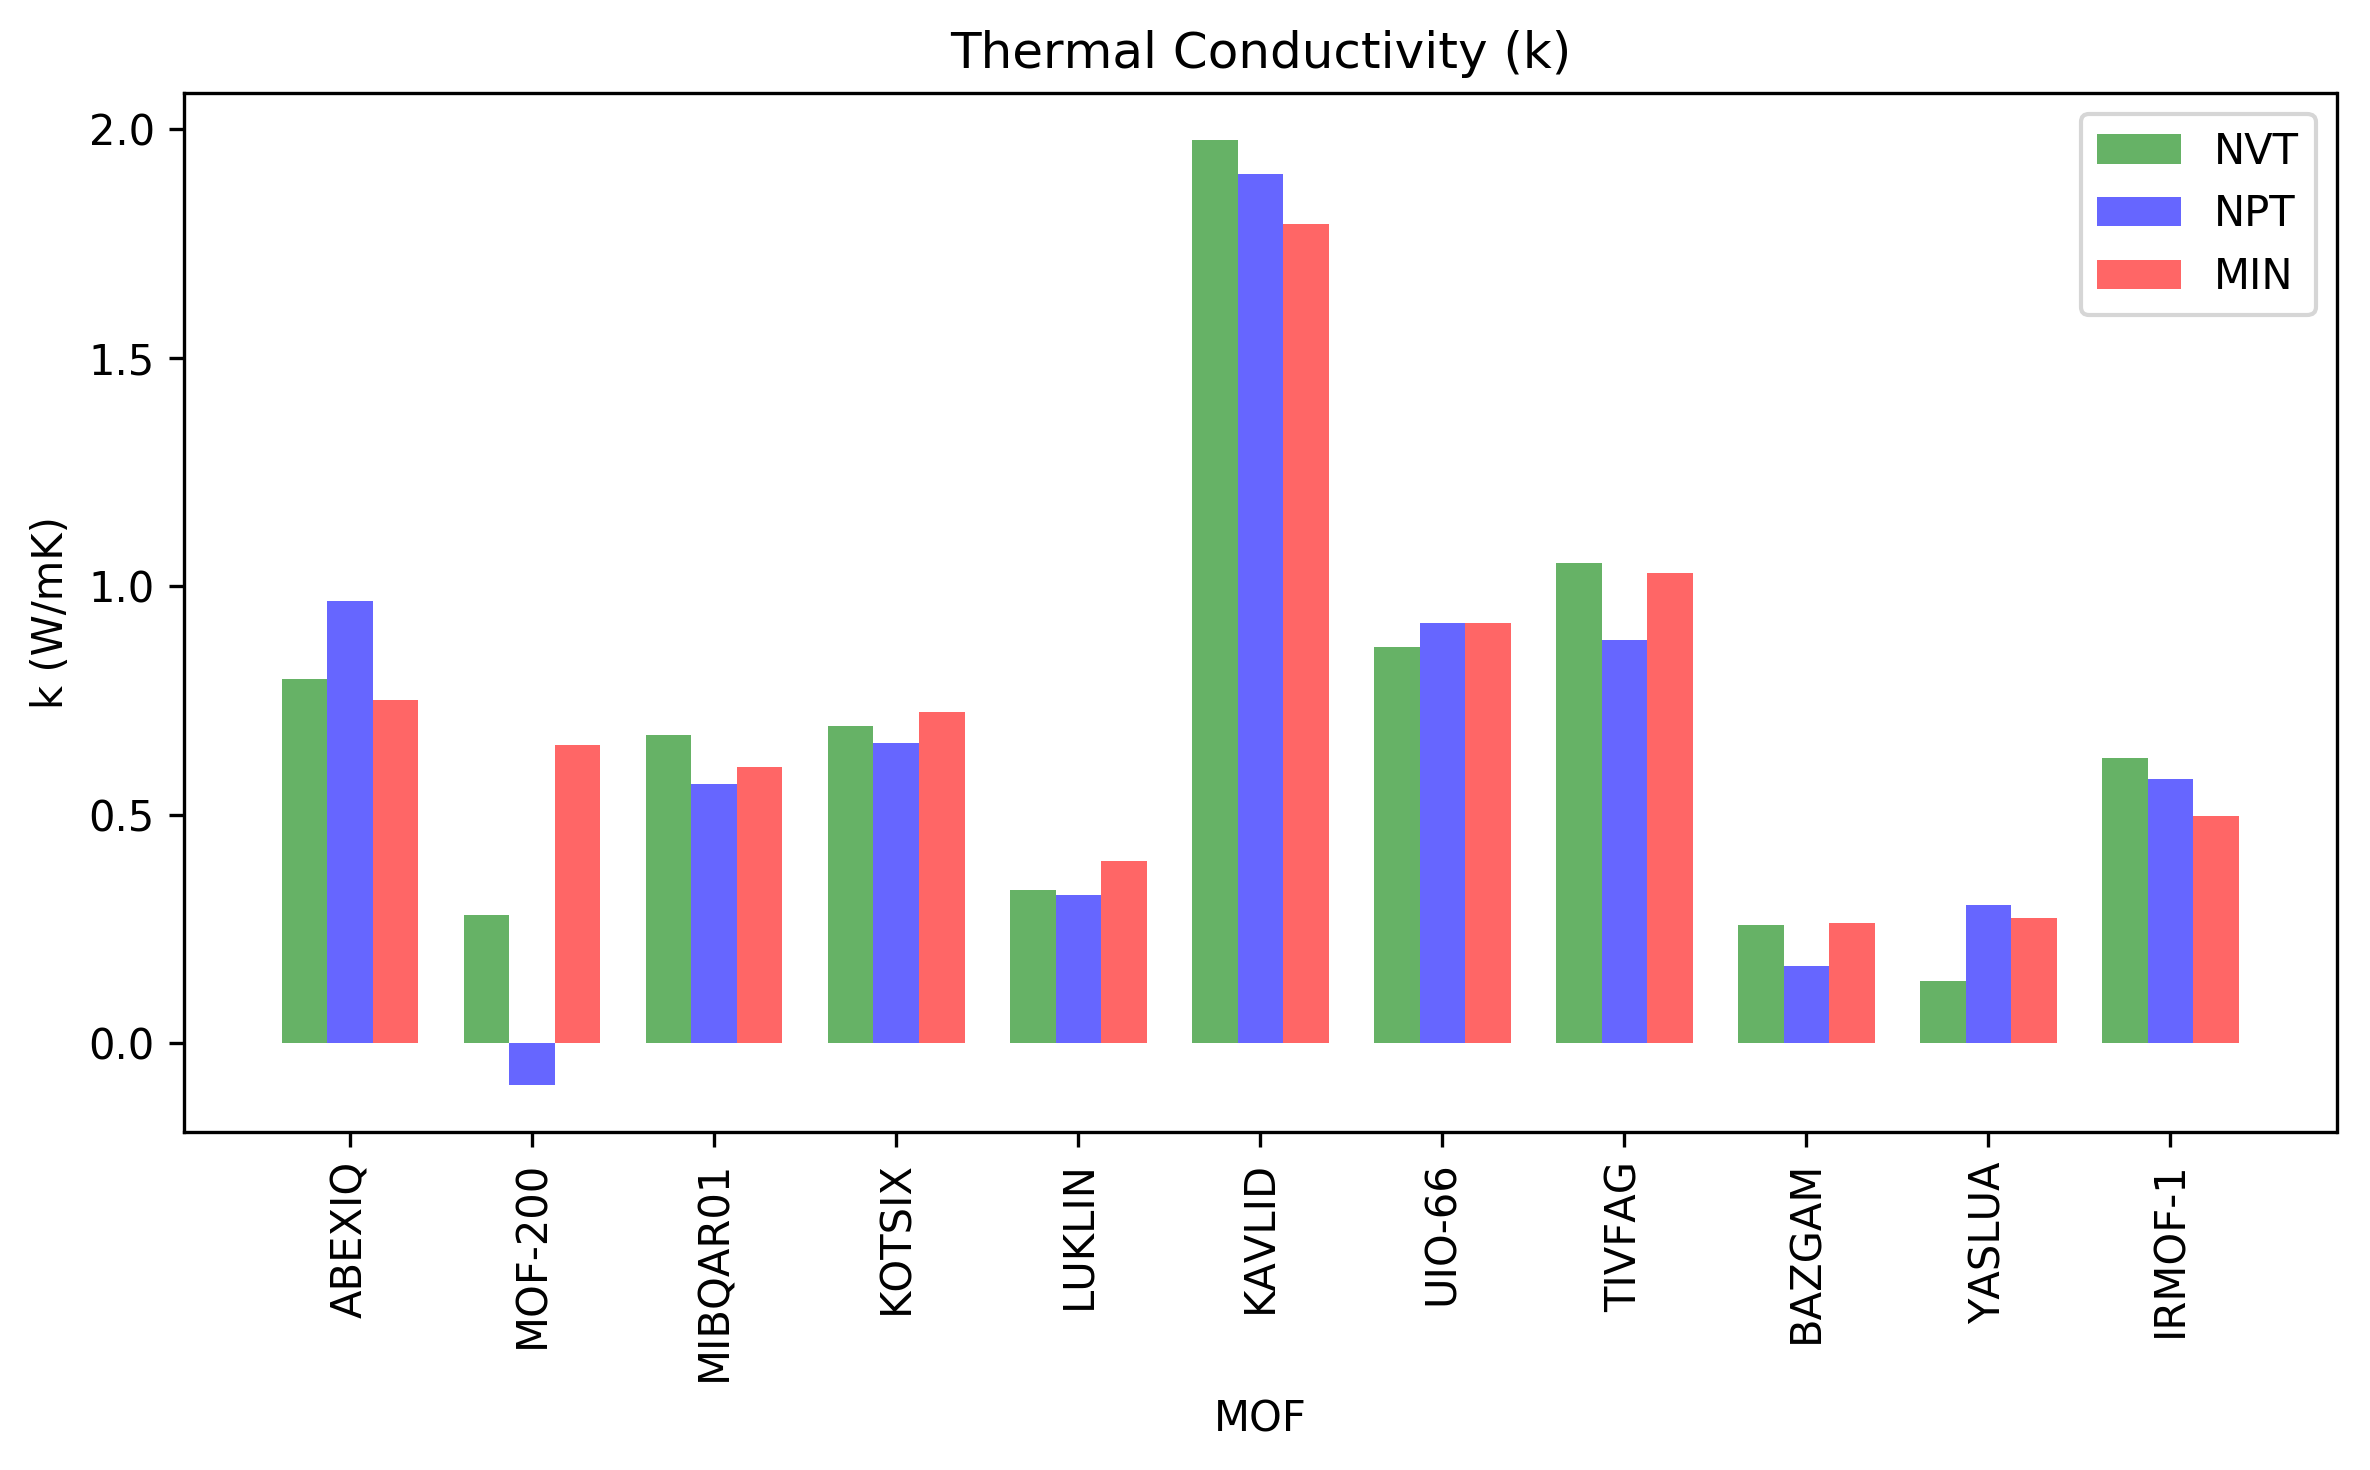
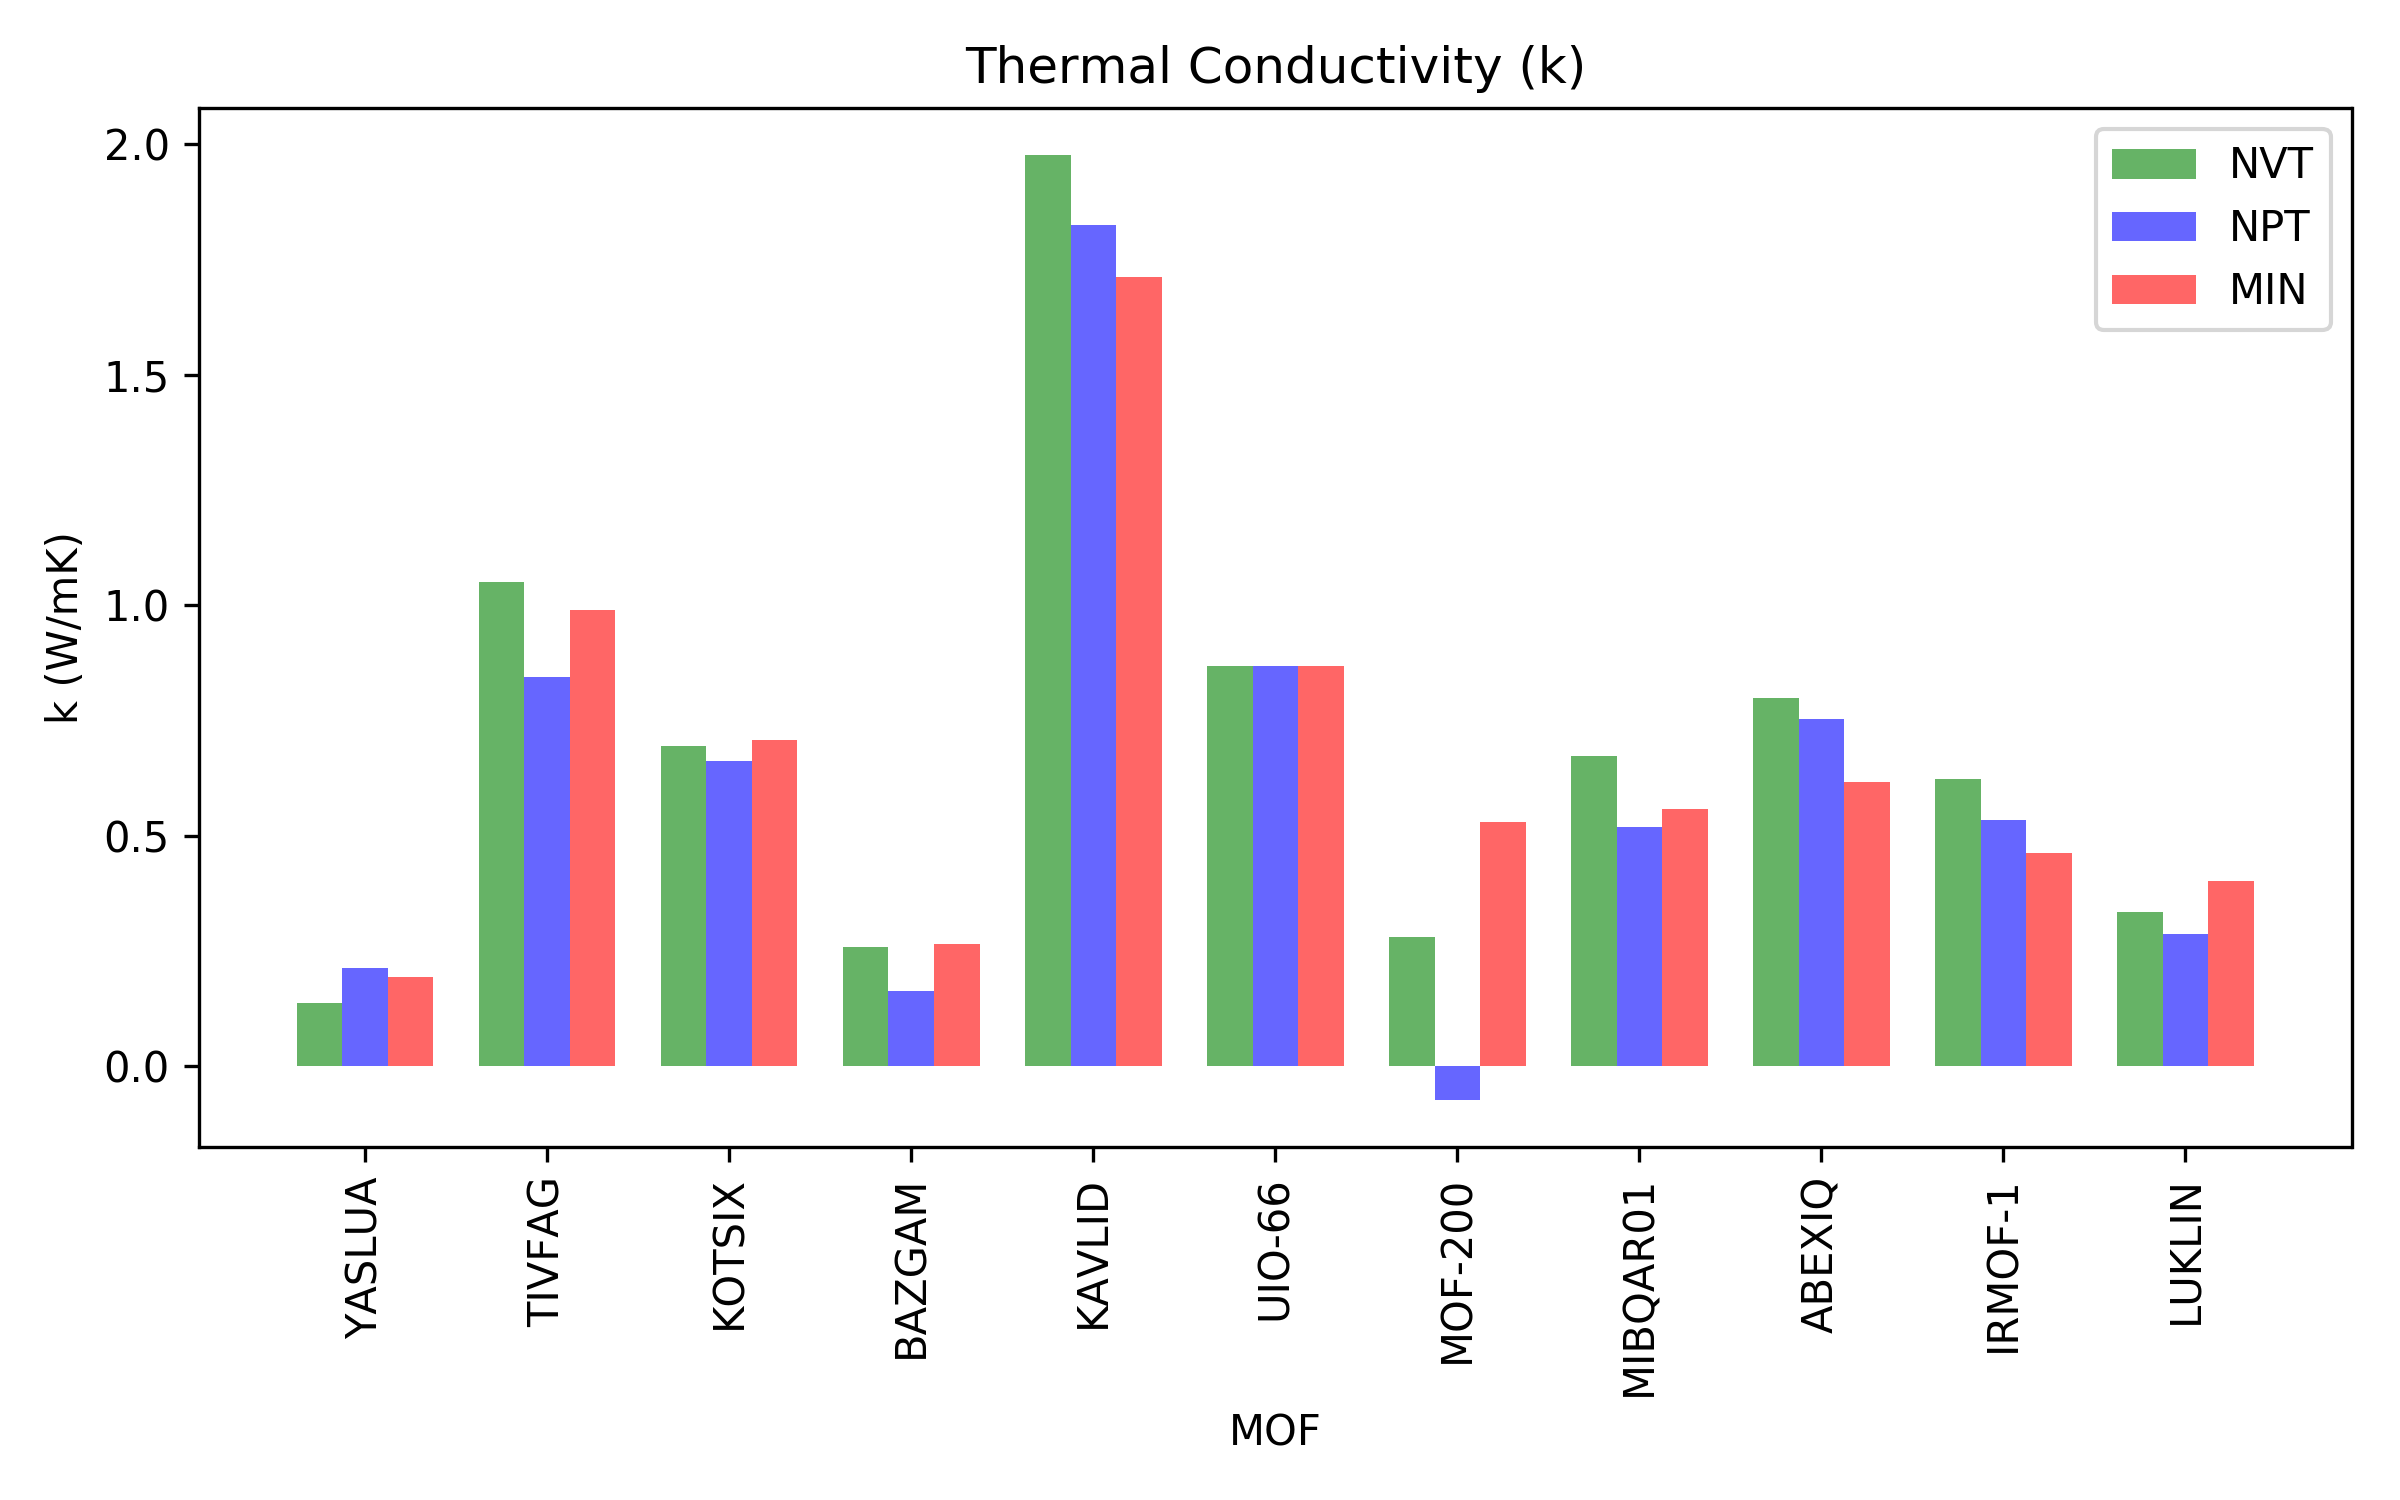
Update tables and bar plots according to final cell volume.

Changed region(s): [[0.0, 0.0, 0.9992, 0.949], [0.4996, 0.949, 0.562, 0.9796]]

diff --git a/docs/screening-test.md b/docs/screening-test.md
@@ -8,61 +8,56 @@ Thermal Conductivity
 --------------------
 <p align="center"> <img src="img/k-procedure.png"> </p>
 
-
-| MOFs           |   k (P0) |     k (P1) |   k (P2) |
-|:---------------|---------:|-----------:|---------:|
-| ABEXIQ         | 0.798137 |  0.968289  | 0.751557 |
-| MOF-200        | 0.280038 | -0.0900495 | 0.652325 |
-| MIBQAR01_clean | 0.67421  |  0.568141  | 0.604212 |
-| KOTSIX_clean   | 0.695291 |  0.657047  | 0.725224 |
-| LUKLIN_clean   | 0.334687 |  0.325566  | 0.399432 |
-| KAVLID_clean   | 1.97645  |  1.90198   | 1.79313  |
-| UIO-66         | 0.868001 |  0.920516  | 0.91934  |
-| TIVFAG_clean   | 1.05043  |  0.881849  | 1.02839  |
-| BAZGAM_clean   | 0.259037 |  0.169085  | 0.263757 |
-| YASLUA_clean   | 0.136772 |  0.303419  | 0.275082 |
-| IRMOF-1        | 0.624206 |  0.579418  | 0.497078 |
+| MOFs     |   k (W/mK) - P0 |   k (W/mK) - P1 |   k (W/mK) - P2 |
+|:---------|----------------:|----------------:|----------------:|
+| YASLUA   |        0.136772 |       0.21259   |        0.194549 |
+| TIVFAG   |        1.05043  |       0.84558   |        0.989194 |
+| KOTSIX   |        0.695291 |       0.663363  |        0.707111 |
+| BAZGAM   |        0.259037 |       0.16443   |        0.265532 |
+| KAVLID   |        1.97645  |       1.82541   |        1.71133  |
+| UIO-66   |        0.868001 |       0.868322  |        0.869356 |
+| MOF-200  |        0.280038 |      -0.0720143 |        0.529195 |
+| MIBQAR01 |        0.67421  |       0.520306  |        0.558647 |
+| ABEXIQ   |        0.798137 |       0.753924  |        0.617633 |
+| IRMOF-1  |        0.624206 |       0.534997  |        0.462318 |
+| LUKLIN   |        0.334687 |       0.287491  |        0.402686 |
 
 Volume change
 -------------
 <p align="center"> <img src="img/volume-change-procedure.png"> </p>
 
 
-| MOFs           |   dV (%) - P0 |   dV (%) - P1 |   dV (%) - P2 |
-|:---------------|--------------:|--------------:|--------------:|
-| ABEXIQ         |             0 |    -22.1385   |    -17.8195   |
-| MOF-200        |             0 |    -20.0282   |    -18.8755   |
-| MIBQAR01_clean |             0 |     -8.41947  |     -7.5412   |
-| KOTSIX_clean   |             0 |      0.961154 |     -2.49758  |
-| LUKLIN_clean   |             0 |    -11.695    |      0.814653 |
-| KAVLID_clean   |             0 |     -4.02588  |     -4.56214  |
-| UIO-66         |             0 |     -5.67012  |     -5.43697  |
-| TIVFAG_clean   |             0 |     -4.11291  |     -3.81107  |
-| BAZGAM_clean   |             0 |     -2.75286  |      0.673155 |
-| YASLUA_clean   |             0 |    -29.9351   |    -29.2759   |
-| IRMOF-1        |             0 |     -7.66637  |     -6.99281  |
+| MOFs     |   dV (%) - P0 |   dV (%) - P1 |   dV (%) - P2 |
+|:---------|--------------:|--------------:|--------------:|
+| YASLUA   |             0 |       -29.935 |       -29.276 |
+| TIVFAG   |             0 |        -4.113 |        -3.811 |
+| KOTSIX   |             0 |         0.961 |        -2.498 |
+| BAZGAM   |             0 |        -2.753 |         0.673 |
+| KAVLID   |             0 |        -4.026 |        -4.562 |
+| UIO-66   |             0 |        -5.67  |        -5.437 |
+| MOF-200  |             0 |       -20.028 |       -18.876 |
+| MIBQAR01 |             0 |        -8.419 |        -7.541 |
+| ABEXIQ   |             0 |       -22.139 |       -17.819 |
+| IRMOF-1  |             0 |        -7.666 |        -6.993 |
+| LUKLIN   |             0 |       -11.695 |         0.815 |
 
 Wall time
 ---------
 <p align="center"> <img src="img/walltime-procedure.png"> </p>
 
-| MOFs           | N atoms | Time (mins)-P0 | Time (mins)-P1 | Time (mins)-P2 |
-|:---------------|--------:|---------------:|---------------:|---------------:|
-| ABEXIQ         |   10800 |        97.7167 |       140.7    |        123.767 |
-| MOF-200        |    2576 |       177.167  |       185.983  |        395.767 |
-| MIBQAR01_clean |    2862 |        29.5167 |        40.5333 |         30.75  |
-| KOTSIX_clean   |   13568 |       147.933  |       329.667  |        181.183 |
-| LUKLIN_clean   |    2400 |        26.0333 |        31.3667 |         27.05  |
-| KAVLID_clean   |   14400 |       167.583  |       207.617  |        181.433 |
-| UIO-66         |   11664 |        92.4667 |       114.95   |        104.117 |
-| TIVFAG_clean   |   11800 |       139.367  |       176.45   |        169.283 |
-| BAZGAM_clean   |    5088 |        24.1333 |        29.0167 |         36.35  |
-| YASLUA_clean   |    6272 |        39.1833 |        61.6    |         76.05  |
-| IRMOF-1        |    3392 |        27      |        33.4667 |         28.95  |
-
-<p align="center"> <img src="img/walltime-natoms.png"> </p>
-
-<p align="center"> <img src="img/walltime-natoms-all.png" width=500> </p>
+| MOFs     |   N atoms |   Time (mins) - P0 |   Time (mins) - P1 |   Time (mins) - P2 |
+|:---------|----------:|-------------------:|-------------------:|-------------------:|
+| YASLUA   |      2400 |            39.1833 |            61.6    |             76.05  |
+| TIVFAG   |      2576 |           139.367  |           176.45   |            169.283 |
+| KOTSIX   |      2862 |           147.933  |           329.667  |            181.183 |
+| BAZGAM   |      3392 |            24.1333 |            29.0167 |             36.35  |
+| KAVLID   |      5088 |           167.583  |           207.617  |            181.433 |
+| UIO-66   |      6272 |            92.4667 |           114.95   |            104.117 |
+| MOF-200  |     10800 |           177.167  |           185.983  |            395.767 |
+| MIBQAR01 |     11664 |            29.5167 |            40.5333 |             30.75  |
+| ABEXIQ   |     11800 |            97.7167 |           140.7    |            123.767 |
+| IRMOF-1  |     13568 |            27      |            33.4667 |             28.95  |
+| LUKLIN   |     14400 |            26.0333 |            31.3667 |             27.05  |
 
 Heat flux autocorrelation
 -------------------------
@@ -78,34 +73,34 @@ Heat flux autocorrelation
 Computational Resource
 ----------------------
 ### Wall time
-<p align="center"> <img src="img/cpu-time.png"> </p>
+<p align="center"> <img src="img/walltime-cpu.png"> </p>
 
 ### Thermal conductivity
-<p align="center"> <img src="img/cpu-k.png"> </p>
+<p align="center"> <img src="img/k-cpu.png"> </p>
 
 ### Volume change
-<p align="center"> <img src="img/cpu-dv.png"> </p>
+<p align="center"> <img src="img/volume-change-cpu.png"> </p>
 
 
-| MOF     | Procedure   |   Nodes |   PPN |Time (min)| k (W/mK) |    dV (%)  |
-|:--------|:------------|--------:|------:|---------:|---------:|-----------:|
-| IRMOF-1 | P1          |       2 |     7 |  78.1833 | 0.462116 |   -7.67816 |
-| IRMOF-1 | P1          |       2 |    14 |  46.1667 | 0.541847 |   -7.855   |
-| IRMOF-1 | P1          |       2 |    28 |  33.6833 | 0.579418 |   -7.66637 |
-| IRMOF-1 | P1          |       3 |    28 |  32.4167 | 0.552733 |   -7.96882 |
-| IRMOF-1 | P1          |       4 |    28 |  33.6833 | 0.462914 |   -7.62663 |
-| IRMOF-1 | P2          |       2 |     7 |  60.0333 | 0.5411   |   -6.97435 |
-| IRMOF-1 | P2          |       2 |    14 |  34.45   | 0.532054 |   -6.96926 |
-| IRMOF-1 | P2          |       2 |    28 |  29.2833 | 0.497078 |   -6.99281 |
-| IRMOF-1 | P2          |       3 |    28 |  27.0667 | 0.562708 |   -6.96839 |
-| IRMOF-1 | P2          |       4 |    28 |  28.8833 | 0.507436 |   -6.97095 |
-| ABEXIQ  | P1          |       2 |     7 | 474.217  | 1.00649  |  -22.08    |
-| ABEXIQ  | P1          |       2 |    14 | 242.867  | 1.01105  |  -22.0426  |
-| ABEXIQ  | P1          |       2 |    28 | 140.067  | 0.968289 |  -22.1385  |
-| ABEXIQ  | P1          |       3 |    28 | 106.183  | 1.02969  |  -22.1161  |
-| ABEXIQ  | P1          |       4 |    28 |  92.8333 | 0.887638 |  -22.1984  |
-| ABEXIQ  | P2          |       2 |     7 | 388.217  | 0.950987 |  -17.8189  |
-| ABEXIQ  | P2          |       2 |    14 | 214.05   | 0.767595 |  -17.8197  |
-| ABEXIQ  | P2          |       2 |    28 | 123.75   | 0.751557 |  -17.8195  |
-| ABEXIQ  | P2          |       3 |    28 |  95.2833 | 0.816602 |  -17.8261  |
-| ABEXIQ  | P2          |       4 |    28 |  84.2833 | 0.826685 |  -17.819   |
+| MOF     | Procedure   |   Nodes |   PPN |   Time (min) |   k (W/mK) |    dV (%) |
+|:--------|:------------|--------:|------:|-------------:|-----------:|----------:|
+| ABEXIQ  | MIN         |       2 |     7 |     388.217  |   0.781531 | -17.8189  |
+| ABEXIQ  | MIN         |       2 |    14 |     214.05   |   0.630812 | -17.8197  |
+| ABEXIQ  | MIN         |       2 |    28 |     123.75   |   0.617633 | -17.8195  |
+| ABEXIQ  | MIN         |       3 |    28 |      95.2833 |   0.671034 | -17.8261  |
+| ABEXIQ  | MIN         |       4 |    28 |      84.2833 |   0.679378 | -17.819   |
+| ABEXIQ  | NPT         |       2 |     7 |     474.217  |   0.78426  | -22.08    |
+| ABEXIQ  | NPT         |       2 |    14 |     242.867  |   0.78819  | -22.0426  |
+| ABEXIQ  | NPT         |       2 |    28 |     140.067  |   0.753924 | -22.1385  |
+| ABEXIQ  | NPT         |       3 |    28 |     106.183  |   0.801959 | -22.1161  |
+| ABEXIQ  | NPT         |       4 |    28 |      92.8333 |   0.690596 | -22.1984  |
+| IRMOF-1 | MIN         |       2 |     7 |      60.0333 |   0.503362 |  -6.97436 |
+| IRMOF-1 | MIN         |       2 |    14 |      34.45   |   0.494974 |  -6.96926 |
+| IRMOF-1 | MIN         |       2 |    28 |      29.2833 |   0.462318 |  -6.99281 |
+| IRMOF-1 | MIN         |       3 |    28 |      27.0667 |   0.523496 |  -6.96839 |
+| IRMOF-1 | MIN         |       4 |    28 |      28.8833 |   0.472063 |  -6.97095 |
+| IRMOF-1 | NPT         |       2 |     7 |      78.1833 |   0.426634 |  -7.67816 |
+| IRMOF-1 | NPT         |       2 |    14 |      46.1667 |   0.499285 |  -7.855   |
+| IRMOF-1 | NPT         |       2 |    28 |      33.6833 |   0.534997 |  -7.66637 |
+| IRMOF-1 | NPT         |       3 |    28 |      32.4167 |   0.508687 |  -7.96882 |
+| IRMOF-1 | NPT         |       4 |    28 |      33.6833 |   0.42761  |  -7.62663 |
